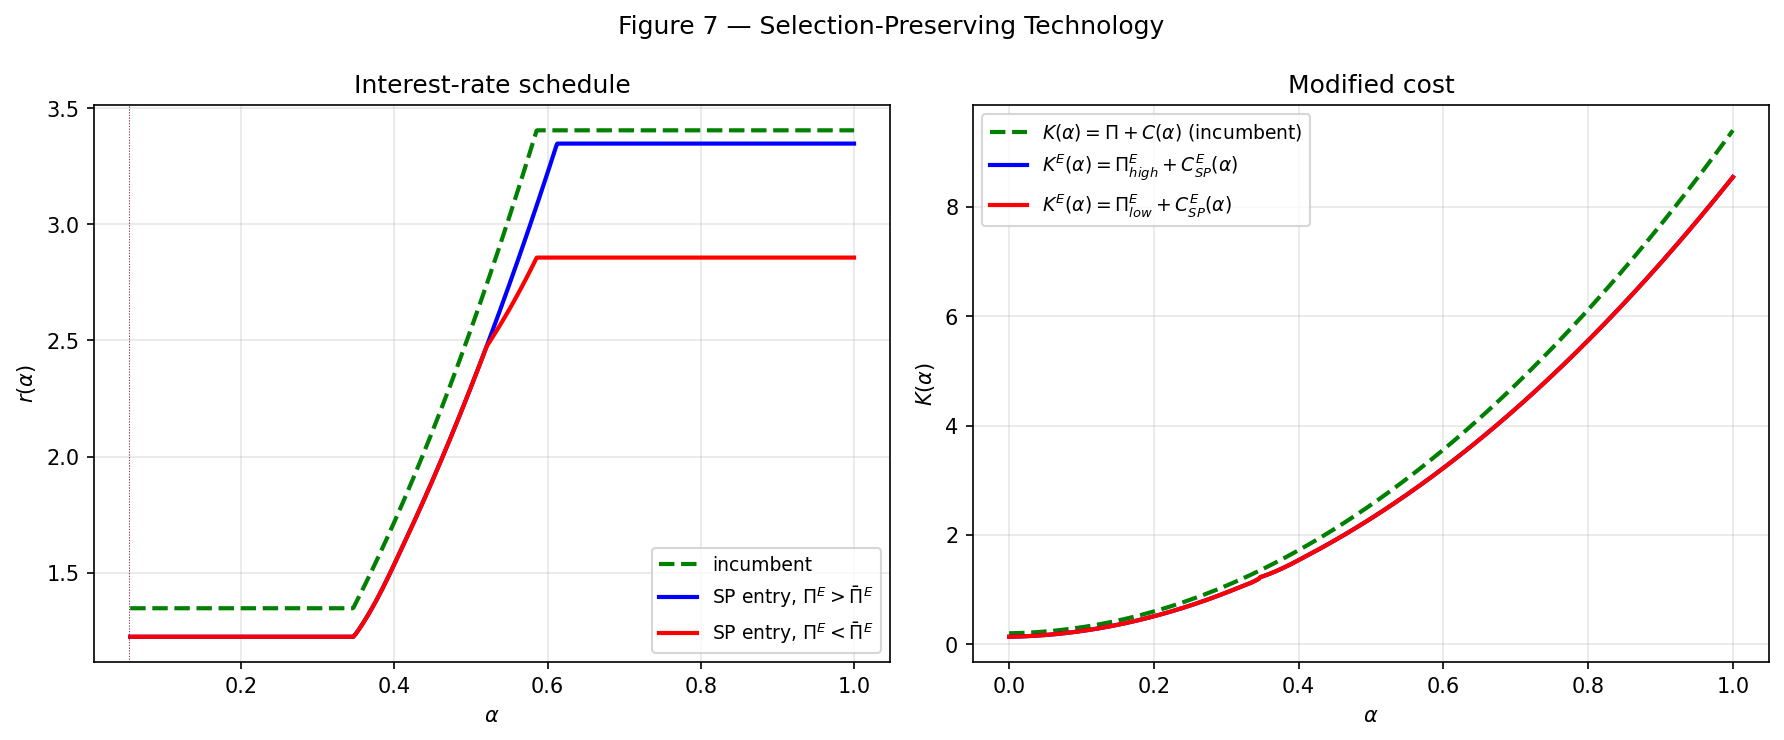
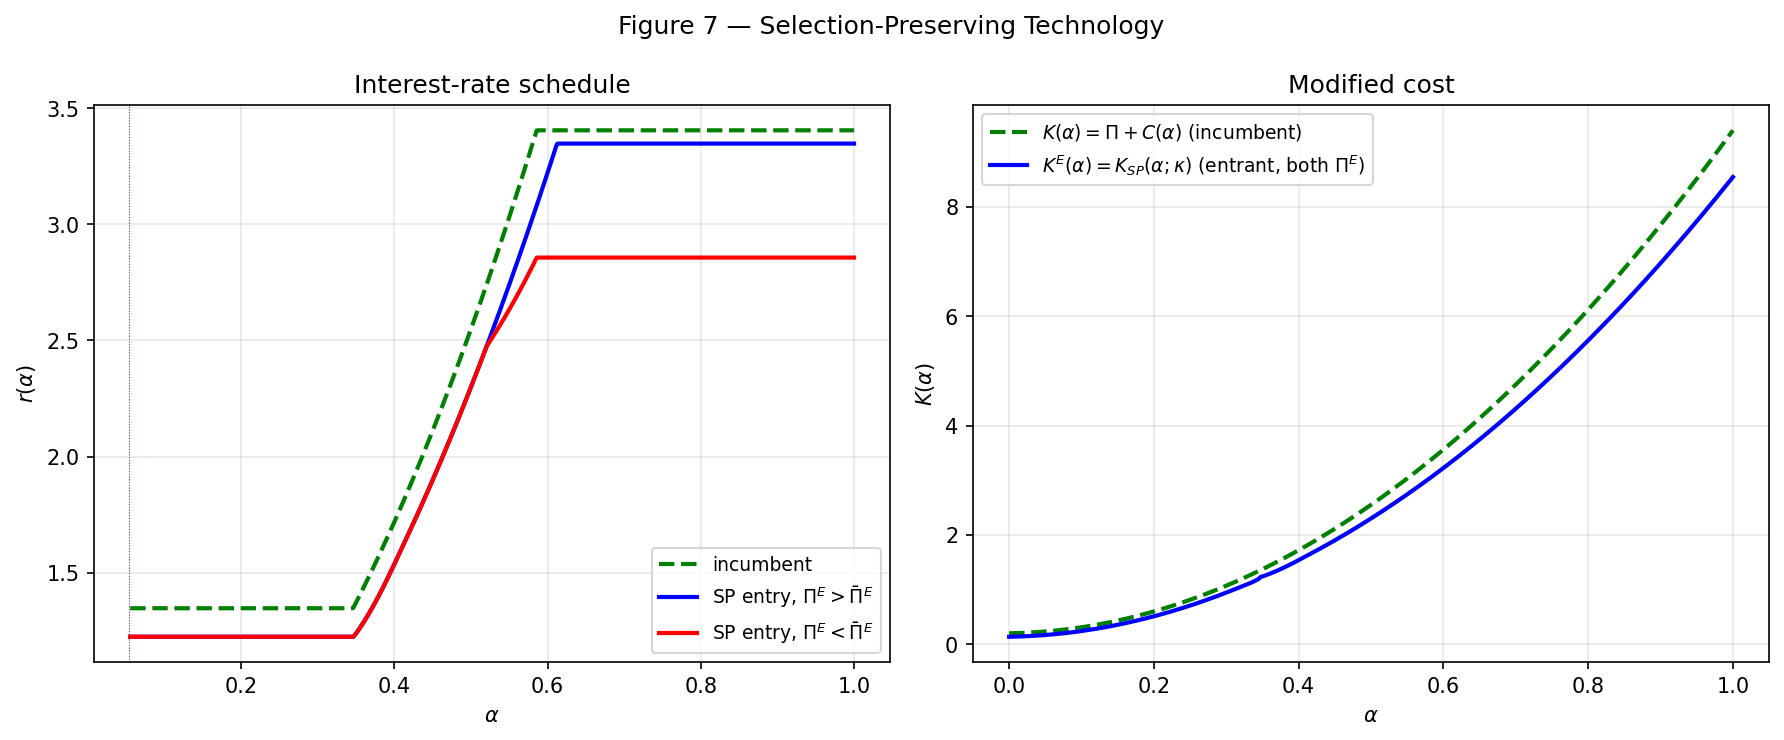
Iteration 2: smooth transitions, new cost kinds, fig9b hits target branch
- Smooth sigmoid-windowed cost_reduction_top/low (C¹ transitions, no kinks).
- New cost_offset_smooth kind: additive sigmoid offset (negative at low alpha,
  positive at high alpha). Available for future use.
- New cost_dip_gaussian kind: Gaussian-shaped cost-advantage band centered at
  alpha_center, with baseline disadvantage outside. Used by FIG9_OB_broad.
- FIG9_OB_broad now lands on the correct equilibrium branch from
  prop:EntEqHeterogC ("rNS goes up, no NS entry"):
    * Region I: parallel pooling curves, r_p^E < r_p.
    * alpha_1^E = alpha_1.
    * Region II: no entry (K^E > K_inc), realized r = K_inc.
    * alpha_2^E = alpha_2.
    * Region III: flat r_NS^E > r_NS (negative spillover).
- FIG8_bigdata: Pi^E raised to 0.5 so K^E starts above K_inc, crosses at
  high alpha within CIM; cost-reduction sigmoid transition is smooth.
- FIG7 K-panel consolidated to one K_SP curve (K_SP is Pi^E-independent
  by construction).
- Solver guards added in run_mainE for the empty-pooling case
  (alpha_0^E ~= alpha_1^E), needed by FIG8.

diff --git a/mainE_python.py b/mainE_python.py
@@ -75,11 +75,14 @@ PARAM_CONFIGS = {
     },
     'FIG8_bigdata': {
         'description': 'Figure 8 / fig:AIintermediateInnovation - big data: C^E<C for alpha>alpha_hat.',
+        # Setup chosen so K^E starts above K (Π^E > Π = 0.2), is flatter at high
+        # α (λ < 1 multiplicative reduction), and crosses K only at a relatively
+        # high α (within the CIM region, before NS).
         **_DEFAULT_INC_BASELINE,
         'has_entry': True,
-        'PiE': 0.1,
+        'PiE': 0.5,
         'cfunE_kind': 'cost_reduction_top',
-        'cfunE_params': {'alpha_hat': 0.4, 'lambda': 0.7},
+        'cfunE_params': {'alpha_hat': 0.40, 'lambda': 0.5, 'transition_width': 0.05},
     },
     'FIG9_OB_limited': {
         'description': 'Figure 9a / fig:OB left - Open Banking, limited adoption (alpha_hat small).',
@@ -95,12 +98,24 @@ PARAM_CONFIGS = {
                          'use_legacy_addons': True, 'kappa1_distortion': -4.0},
     },
     'FIG9_OB_broad': {
-        'description': 'Figure 9b / fig:OB right - Open Banking, broad adoption (alpha_hat intermediate).',
+        'description': 'Figure 9b / fig:OB right - Open Banking, broad adoption (cost advantage band at intermediate alpha).',
+        # Target equilibrium branch: rprime is min AND rprime > K(α₂)
+        # ("rNS goes up, no NS entry" branch from prop:EntEqHeterogC proof,
+        # lines 1432-1433 of the LaTeX).
+        # The Gaussian dip is centered inside the pooling region, away from α₀,
+        # so entrants prefer to enter at HIGHER α than incumbents → more cream-
+        # skimming of goods → more bads left over → rprime > K(α₂).
+        # K^E ≥ K_inc at α=0 and α=α₂ ensures rdprime, rtprime are not the min.
         **_DEFAULT_INC_BASELINE,
         'has_entry': True,
-        'PiE': 0.1,
-        'cfunE_kind': 'cost_reduction_low',
-        'cfunE_params': {'alpha_hat': 0.3, 'lambda': 0.6},
+        'PiE': 0.2,
+        'cfunE_kind': 'cost_dip_gaussian',
+        'cfunE_params': {
+            'alpha_center': 0.20,    # in middle of pooling region [α₀=0.054, α₁=0.346]
+            'sigma': 0.08,           # narrow band
+            'delta_dip': 0.20,       # peak advantage
+            'delta_baseline': 0.05,  # entrant slightly disadvantaged outside the band
+        },
     },
 }
 
@@ -231,7 +246,8 @@ def _resolve_cfunE_mode(cfg):
     if kind == 'polynomial':
         return 'simple', params
 
-    if kind in ('cost_reduction_top', 'cost_reduction_low'):
+    if kind in ('cost_reduction_top', 'cost_reduction_low',
+                'cost_offset_smooth', 'cost_dip_gaussian'):
         # New kinds — handled directly in cfunE, no legacy mode.
         return kind, params
 
@@ -525,22 +541,63 @@ def cfunE(alpha):
     cfg = PARAM_CONFIGS[ACTIVE_CONFIG]
     mode, params = _resolve_cfunE_mode(cfg)
 
-    # --- cost-reduction kinds: piecewise λ·C(α).
-    # cfunE returns C^E(α). Downstream uses K^E = Π^E + cfunE(α).
-    if mode == 'cost_reduction_top':
+    # --- cost-reduction kinds: smooth sigmoid-windowed C^E(α) = w(α)·C(α).
+    # The sigmoid window gives a C¹ transition through α̂, eliminating the kink
+    # that bare piecewise functions would introduce.  Steepness s controls how
+    # sharp the transition is (s small ≈ piecewise; s large ≈ broad ramp).
+    # cfunE returns C^E(α); downstream uses K^E = Π^E + cfunE(α).
+    if mode in ('cost_reduction_top', 'cost_reduction_low'):
         alpha_arr = np.atleast_1d(np.asarray(alpha, dtype=float))
         alpha_hat = params['alpha_hat']
         lam = params['lambda']
+        s = params.get('transition_width', 0.03)
         c_inc = np.array([_scalar(cfun(a)) for a in alpha_arr])
-        ca = np.where(alpha_arr > alpha_hat, lam * c_inc, c_inc)
+        sig = 1.0 / (1.0 + np.exp(-(alpha_arr - alpha_hat) / s))
+        if mode == 'cost_reduction_top':
+            # w: 1 (low α) → λ (high α).
+            w = 1.0 - (1.0 - lam) * sig
+        else:
+            # w: λ (low α) → 1 (high α).
+            w = lam + (1.0 - lam) * sig
+        ca = w * c_inc
         return _scalar(ca[0]) if len(alpha_arr) == 1 else ca
 
-    if mode == 'cost_reduction_low':
+    # --- cost_offset_smooth: additive offset that is negative at low α and
+    # positive at high α, transitioning through α̂.
+    # K^E(α) - K(α) = (Π^E - Π) + offset(α), where
+    #   offset(α) = -δ_low + (δ_low + δ_high)·sigmoid((α - α̂)/s)
+    # At low α: offset = -δ_low (entrant cheaper).
+    # At high α: offset = +δ_high (entrant more expensive).
+    if mode == 'cost_offset_smooth':
         alpha_arr = np.atleast_1d(np.asarray(alpha, dtype=float))
         alpha_hat = params['alpha_hat']
-        lam = params['lambda']
+        delta_low = params['delta_low']
+        delta_high = params['delta_high']
+        s = params.get('transition_width', 0.03)
         c_inc = np.array([_scalar(cfun(a)) for a in alpha_arr])
-        ca = np.where(alpha_arr < alpha_hat, lam * c_inc, c_inc)
+        sig = 1.0 / (1.0 + np.exp(-(alpha_arr - alpha_hat) / s))
+        offset = -delta_low + (delta_low + delta_high) * sig
+        ca = c_inc + offset
+        return _scalar(ca[0]) if len(alpha_arr) == 1 else ca
+
+    # --- cost_dip_gaussian: a Gaussian-shaped cost ADVANTAGE band centered at
+    # alpha_center, with a baseline disadvantage delta_baseline elsewhere.
+    # C^E(α) = C(α) + delta_baseline - delta_dip · exp(-(α-α_c)²/(2σ²))
+    # At α far from α_c: K^E ≈ K + delta_baseline (entrant slightly more expensive).
+    # At α = α_c: K^E ≈ K + delta_baseline - delta_dip (entrant cheaper if dip>baseline).
+    # This gives a "bump-down" shape: cost advantage in an intermediate band, no
+    # advantage at very low/high α.  Used for OB-broad to make entrants prefer
+    # higher α (mid-pooling) than α₀, which produces extra cream-skimming.
+    if mode == 'cost_dip_gaussian':
+        alpha_arr = np.atleast_1d(np.asarray(alpha, dtype=float))
+        alpha_center = params['alpha_center']
+        sigma = params['sigma']
+        delta_dip = params['delta_dip']
+        delta_baseline = params.get('delta_baseline', 0.0)
+        c_inc = np.array([_scalar(cfun(a)) for a in alpha_arr])
+        bump = np.exp(-(alpha_arr - alpha_center)**2 / (2.0 * sigma**2))
+        offset = delta_baseline - delta_dip * bump
+        ca = c_inc + offset
         return _scalar(ca[0]) if len(alpha_arr) == 1 else ca
 
     # --- polynomial closed form ---
@@ -1516,6 +1573,15 @@ def run_mainE():
 
     print(f"  Pooling region: {n-1} iterations")
 
+    # Guard: if loop didn't execute (degenerate/empty pooling region), keep the
+    # initial distributions so downstream code has valid arrays to work with.
+    # This case arises when K^E is high enough that entrants don't pool but may
+    # still enter in CIM/NS regions (e.g., Big Data with Π^E > Π).
+    if gnext_E is None:
+        gnext_E = gfunprevE.copy()
+        bnext_E = bfunprevE.copy()
+        print("  [empty pooling region: skipping selective pooling entry]")
+
     # Final gammaE
     if gnext_E is not None:
         mask_gf = g.omvec <= (g.beta + g.alpha1E * (1 - g.beta))
@@ -1543,7 +1609,9 @@ def run_mainE():
     print(f"  badleftoverE = {g.badleftoverE:.6f}")
 
     # ---------- Analytical entry comparison (Region I only) ----------
-    if g.rpE < g.rp:
+    # Skip if pooling region is degenerate (α₀^E ≥ α₁^E - Δ).
+    pooling_is_valid = (g.rpE < g.rp) and (g.alpha1E - g.alpha0E > g.Delta * 2)
+    if pooling_is_valid:
         print("\n  --- Analytical Entry (Region I) ---")
         cfg = PARAM_CONFIGS[ACTIVE_CONFIG]
         mode, _ = _resolve_cfunE_mode(cfg)

diff --git a/make_figure9b.py b/make_figure9b.py
@@ -21,9 +21,11 @@ def main():
     ax.plot(res['alphas_plot'], res['r_E_plot'],   'b-',  lw=2, label='post-entry')
     ax.axvline(res['alpha0'],  color='g', ls=':', lw=0.6, alpha=0.5)
     ax.axvline(res['alpha0E'], color='b', ls=':', lw=0.6, alpha=0.5)
-    alpha_hat = res['config']['cfunE_params']['alpha_hat']
-    ax.axvline(alpha_hat, color='k', ls='--', lw=0.8, alpha=0.7,
-               label=fr'$\hat\alpha = {alpha_hat:.2f}$')
+    params = res['config'].get('cfunE_params', {})
+    alpha_marker = params.get('alpha_hat', params.get('alpha_center'))
+    if alpha_marker is not None:
+        ax.axvline(alpha_marker, color='k', ls='--', lw=0.8, alpha=0.7,
+                   label=fr'$\alpha_{{marker}} = {alpha_marker:.2f}$')
     ax.set_xlabel(r'$\alpha$'); ax.set_ylabel(r'$r(\alpha)$')
     ax.set_title('Interest-rate schedule'); ax.grid(alpha=0.3); ax.legend(fontsize=9)
 
@@ -33,8 +35,9 @@ def main():
             label=r'$K(\alpha) = \Pi + C(\alpha)$ (incumbent)')
     ax.plot(res['alphas_plot'], res['K_E_plot'],   'b-',  lw=2,
             label=r'$K^E(\alpha) = \Pi^E + C^E(\alpha)$ (entrant)')
-    ax.axvline(alpha_hat, color='k', ls='--', lw=0.8, alpha=0.7,
-               label=fr'$\hat\alpha = {alpha_hat:.2f}$')
+    if alpha_marker is not None:
+        ax.axvline(alpha_marker, color='k', ls='--', lw=0.8, alpha=0.7,
+                   label=fr'$\alpha_{{marker}} = {alpha_marker:.2f}$')
     ax.set_xlabel(r'$\alpha$'); ax.set_ylabel(r'$K(\alpha)$')
     ax.set_title('Modified cost'); ax.grid(alpha=0.3); ax.legend(fontsize=9)
 
